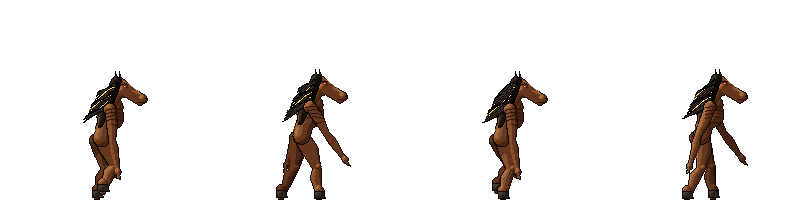
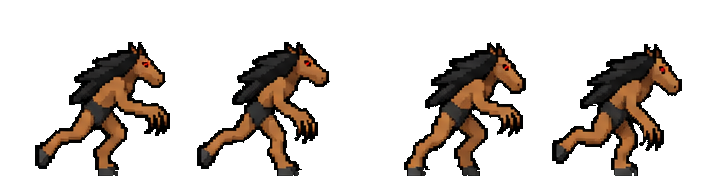
tikbalang_lvl3

diff --git a/tools/build_dilim_delivered.py b/tools/build_dilim_delivered.py
@@ -10,6 +10,7 @@ turnaround, walk or fly cycles, and a row of poses, on a near-black panel with g
     ASWANG/manananggal.png   the manananggal, its lower legs drawn apart
     ASWANG/aswang.png        the supplied crawling aswang sheet (2026-11-01), replacing
                             the sculpted old/hulking aswang, `aswang_pig`
+    ASWANG/tikbalang.png     the supplied tikbalang sheet (2026-11-01), idle and race cycles
 They replace the sculpted strips of the same names (ART_PLACEHOLDERS.md: "a delivered strip of the
 same name replaces one with no code change"). build_dilim_creatures.py draws everything else and
 leaves these names alone (DELIVERED).
@@ -103,6 +104,12 @@ def _cycle(stem: str) -> tuple[str, ...]:
 
 
 ROWS = {
+    "tikbalang": [
+        Row((366, 466, 871, 613), ("idle1", "idle2", "idle3", "idle4"),
+            edges=(366, 495, 620, 746, 871), labels=((366, 466, 540, 472),), inset=0),
+        Row((934, 471, 1510, 613), ("run1", "run2", "run3", "run4"),
+            edges=(934, 1078, 1223, 1362, 1510), inset=0),
+    ],
     "aswang": [
         Row((320, 310, 904, 421), _cycle("walk"), edges=(320, 416, 513, 610, 711, 814, 904), inset=0),
         Row((320, 475, 901, 586), ("idle1", "idle2", "idle3", "idle4"),
@@ -180,10 +187,23 @@ ASWANG_FRONT_LOCK = {
     "settle": (((1006, 675), (1002, 704)), 5),
 }
 
+# Dark mane pixels also overlap the tikbalang sheet's panel. These landmarks select only solid
+# mane pockets; the real gap beside idle2's hanging arm is deliberately left transparent.
+TIKBALANG_MANE_AT = {
+    "idle1": ((418, 487), (405, 504)),
+    "idle2": ((552, 492), (536, 509)),
+    "idle3": ((675, 491), (658, 509)),
+    "idle4": ((799, 499),),
+    "run1": ((1032, 491), (1021, 502), (1001, 515)),
+    "run2": ((1161, 506),),
+    "run3": ((1312, 501), (1284, 520)),
+    "run4": ((1442, 508), (1415, 529)),
+}
+
 ## Each creature's one scale, from the sheet to the game: the white lady a head taller than the
 ## apo (106 px), the kapre half again her height on its branch (Kent, 2026-10-22: "make the kapre
 ## bigger"; its sheet's "small in form" left it her size), the manananggal's wings ~140 px across.
-SCALE = {"whitelady": 0.66, "kapre": 0.86, "manananggal": 0.9, "aswang": 1.0}
+SCALE = {"whitelady": 0.66, "kapre": 0.86, "manananggal": 0.9, "aswang": 1.0, "tikbalang": 1.0}
 
 ## Poses drawn facing left.
 FACING_LEFT = {"whitelady": {"idle", "float", "look_up", "look_down", "reach"},
@@ -191,6 +211,8 @@ FACING_LEFT = {"whitelady": {"idle", "float", "look_up", "look_down", "reach"},
 
 ## The game's strips, each from one sheet's poses. A `_death` strip is its one pose fading out.
 STRIPS: dict[str, tuple[str, list[str]]] = {
+    "tikbalang_idle": ("tikbalang", ["idle1", "idle2", "idle3", "idle4"]),
+    "tikbalang_run": ("tikbalang", ["run1", "run2", "run3", "run4"]),
     "aswang_pig_idle": ("aswang", ["idle1", "idle2", "idle3", "idle4"]),
     "aswang_pig_run": ("aswang", list(_cycle("walk"))),
     "aswang_pig_windup": ("aswang", ["ready"]),
@@ -314,19 +336,26 @@ def _unshadowed(band: np.ndarray, own: np.ndarray, panel: np.ndarray) -> np.ndar
     return out
 
 
-def _restore_aswang_hair(own: np.ndarray, pose: str, origin: tuple[int, int]) -> np.ndarray:
+def _restore_ink_pockets(own: np.ndarray, points: tuple[tuple[int, int], ...],
+                         origin: tuple[int, int], subject: str) -> np.ndarray:
+    """Restore original-colour ink at marked enclosed pockets, never exterior background."""
     holes = ndimage.binary_fill_holes(own) & ~own
     lab, _ = ndimage.label(holes)
     keep = set()
     x0, y0 = origin
-    for x, y in ASWANG_HAIR_AT[pose]:
+    for x, y in points:
         if own[y - y0, x - x0]:
             continue
         pocket = int(lab[y - y0, x - x0])
         if pocket == 0:
-            raise ValueError(f"aswang {pose}: solid hair at {(x, y)} opens onto the background")
+            raise ValueError(f"{subject}: solid ink at {(x, y)} opens onto the background")
         keep.add(pocket)
-    out = own | np.isin(lab, list(keep))
+    return own | np.isin(lab, list(keep))
+
+
+def _restore_aswang_hair(own: np.ndarray, pose: str, origin: tuple[int, int]) -> np.ndarray:
+    out = _restore_ink_pockets(own, ASWANG_HAIR_AT[pose], origin, f"aswang {pose}")
+    x0, y0 = origin
     if pose in ASWANG_FRONT_LOCK:
         points, width = ASWANG_FRONT_LOCK[pose]
         matte = Image.new("1", (own.shape[1], own.shape[0]))
@@ -349,9 +378,9 @@ def poses(name: str) -> dict[str, Image.Image]:
         band = sheet[y0:y1, x0:x1]
         panel = _panel(band)
         labels = [(lx0 - x0, ly0 - y0, lx1 - x0, ly1 - y0) for lx0, ly0, lx1, ly1 in row.labels]
-        # The crawler's rows have no lettering or inner rules, and its claws use warm browns
-        # that overlap the other sheets' gold ink. Keep those actual character colours.
-        shapes = _shapes(_key(band, panel, labels, remove_gold=name != "aswang"), row, x0)
+        # Outside the explicit label boxes, these rows have no gold rules. The crawler's claws
+        # and tikbalang's skin overlap the other sheets' gold ink: keep those character colours.
+        shapes = _shapes(_key(band, panel, labels, remove_gold=name not in {"aswang", "tikbalang"}), row, x0)
         assert len(shapes) == len(row.names), f"{name}: {len(shapes)} figures in a row of {len(row.names)}"
         for pose, own in zip(row.names, shapes):
             if (name, pose) in LEGS_AT:
@@ -361,6 +390,8 @@ def poses(name: str) -> dict[str, Image.Image]:
             own = _unshadowed(band, own, panel)
             if name == "aswang":
                 own = _restore_aswang_hair(own, pose, (x0, y0))
+            elif name == "tikbalang":
+                own = _restore_ink_pockets(own, TIKBALANG_MANE_AT[pose], (x0, y0), f"tikbalang {pose}")
             ys, xs = np.nonzero(own)
             crop = (slice(ys.min(), ys.max() + 1), slice(xs.min(), xs.max() + 1))
             rgba = np.zeros(own[crop].shape + (4,), dtype=np.uint8)

diff --git a/tests/test_build_dilim_delivered.py b/tests/test_build_dilim_delivered.py
@@ -109,6 +109,7 @@ class DeliveredStripsTest(unittest.TestCase):
         # branch; the manananggal's wings wide enough to be the thing hunting from above.
         self.assertTrue(110 <= _height(_frames(self.strips["aswang_dog_idle"])[0]) <= 124)
         self.assertTrue(140 <= _height(_frames(self.strips["kapre_idle"])[0]) <= 170)
+        self.assertTrue(130 <= _height(_frames(self.strips["tikbalang_idle"])[0]) <= 150)
         wings = _frames(self.strips["manananggal_upper_idle"])[0][..., 3] > 0
         cols = np.nonzero(wings.any(axis=0))[0]
         self.assertTrue(120 <= cols.max() - cols.min() + 1 <= 160, f"wings {cols.max() - cols.min() + 1} px")
@@ -145,6 +146,25 @@ class DeliveredStripsTest(unittest.TestCase):
                 self.assertTrue(hair.any(), f"{name} frame {index}: missing dark hair/outline")
                 self.assertGreater(np.nonzero(red)[1].mean(), np.nonzero(hair)[1].mean(),
                                    f"{name} frame {index} faces left")
+
+    def test_tikbalang_keeps_its_solid_mane_skin_and_rightward_facing(self) -> None:
+        for name, picture in delivered.poses("tikbalang").items():
+            px = np.asarray(picture).astype(int)
+            r, g, b, a = (px[..., c] for c in range(4))
+            opaque = a > 128
+            holes = delivered.ndimage.binary_fill_holes(opaque) & ~opaque
+            self.assertFalse(holes[:picture.height // 2].any(), f"{name}: holes through the mane")
+            skin = opaque & (r > g + 20) & (g > b + 10)
+            self.assertGreater(int(skin.sum()), 800, f"{name}: the key erased its brown skin")
+            eye = opaque & (r > 150) & (g < 70) & (b < 70)
+            mane = opaque & (px[..., :3].max(axis=2) < 60)
+            self.assertTrue(eye.any(), f"{name}: missing red eye")
+            self.assertGreater(np.nonzero(eye)[1].mean(), np.nonzero(mane)[1].mean(),
+                               f"{name}: faces away from the race")
+            lettering = opaque & (r > 190) & (g > 160) & (b < 130)
+            self.assertFalse(lettering[:10].any(), f"{name}: sheet heading remains on the sprite")
+        idle = np.asarray(delivered.poses("tikbalang")["idle2"])
+        self.assertEqual(int(idle[79, 46, 3]), 0, "the gap beside its arm was filled in")
 
     def test_crawler_hair_is_solid_without_filling_the_spaces_between_limbs(self) -> None:
         # The old key left many enclosed transparent patches across the hair in every pose.

diff --git a/tools/build_dilim_creatures.py b/tools/build_dilim_creatures.py
@@ -10,8 +10,8 @@ game/assets/Level4/creatures/, so a delivered strip of the same name simply wins
 WHAT IS DELIVERED NOW
 ---------------------
 The art team's sheets (LEVEL4_Creatures/, 2026-10-20) give the kapre, the manananggal (both halves)
-and the lean aswang -- a white lady. The crawling aswang sheet was supplied on 2026-11-01;
-tools/build_dilim_delivered.py cuts all four. Their strips
+and the lean aswang -- a white lady. The crawling aswang sheet was supplied on 2026-11-01.
+The tikbalang sheet followed the same day; tools/build_dilim_delivered.py cuts all five. Their strips
 (build_dilim_delivered.DELIVERED) are not drawn here; the kapre's tree, its smoke and its cigar
 still are.
 
@@ -20,7 +20,7 @@ HOW THEY ARE DRAWN
 In the delivered art's idiom (the apo, Lolo, the bakunawa): one art px to one screen px, five or
 six tones a material lit from the upper left, and selective coloured outlines -- see
 tools/creature_sculpt.py. The creatures themselves are in dilim_beasts.py (the sigbin),
-dilim_giants.py (the tikbalang, the bungisngis), dilim_kapre.py (the
+dilim_giants.py (the bungisngis), dilim_kapre.py (the
 kapre's smoke and its cigar), dilim_fliers.py (the wakwak, the tik-tik) and dilim_small.py (the
 tiyanak and its undergrowth, the santelmo, the nuno's mound, the kapre's balete); the last
 clearing's dead tree, drawn the same way, is in dilim_props.py.
@@ -60,7 +60,7 @@ ROOT = Path(__file__).resolve().parent.parent
 OUT = ROOT / "game" / "assets" / "Level4" / "creatures"
 
 # Which way each stands: on its feet at the bottom row, or centred (a flier).
-GROUND = ["sigbin", "tikbalang", "bungisngis", "kapre_tree", "tiyanak", "tiyanak_undergrowth", "nuno_mound", "dead_tree"]
+GROUND = ["sigbin", "bungisngis", "kapre_tree", "tiyanak", "tiyanak_undergrowth", "nuno_mound", "dead_tree"]
 FLYING = ["wakwak", "tiktik", "santelmo"]
 
 
@@ -71,7 +71,6 @@ def _beast(b):
 def _sheets() -> dict[str, dict[str, list[Image.Image]]]:
     return {
         "sigbin": _beast(beasts.SIGBIN),
-        "tikbalang": {a: [giants.draw(giants.TIKBALANG, st).render() for st in poses] for a, poses in giants.TIKBALANG_ANIMS.items()},
         "bungisngis": {a: [giants.draw_bungisngis(st).render() for st in poses] for a, poses in giants.BUNGISNGIS_ANIMS.items()},
         "kapre_smoke": {"idle": kapre.smoke()},
         "kapre_cigar": {"idle": [kapre.cigar()]},

diff --git a/tests/test_build_dilim_creatures.py b/tests/test_build_dilim_creatures.py
@@ -1,6 +1,6 @@
 """tools/build_dilim_creatures.py: Dilim's sculpted creature strips, and what they must keep true.
 
-The supplied sheets (the kapre, the manananggal, both aswang variants) are cut by build_dilim_delivered.py
+The supplied sheets (the kapre, the manananggal, both aswang variants, the tikbalang) are cut by build_dilim_delivered.py
 and tested in test_build_dilim_delivered.py, the kapre's place in its tree with them."""
 
 from __future__ import annotations

diff --git a/ART_PLACEHOLDERS.md b/ART_PLACEHOLDERS.md
@@ -328,9 +328,9 @@ one they learn by being put back. Art may restyle it; it may not replace it with
 **Updated 1 November.** Level 4's delivery (`Mt Makiling Level 4.zip`) is forest plates and a
 labelled tileset and no creature art. The art team has since sent three creatures
 (`Creatures.zip`): **the kapre, the manananggal and a white lady**, who is the lean aswang.
-A fourth sheet supplied on 1 November replaces the old/hulking aswang (`aswang_pig`). Every
-other creature is a developer's: sculpted pixel strips, not code-drawn bodies, but still stand-ins
-for an artist's. **See them all at once:**
+Two more sheets supplied on 1 November replace the old/hulking aswang (`aswang_pig`) and
+the tikbalang. Every other creature is a developer's: sculpted pixel strips, not code-drawn
+bodies, but still stand-ins for an artist's. **See them all at once:**
 `godot -t --resolution 1600x900 --path game --script res://tests/run_visual_dilim_creatures.gd`
 writes each one beside her, in her light at play framing, to `/tmp/obra_dilim_*.png` and a sheet.
 That is the right way to judge them -- Dilim is dark, and a body that reads on a grey background
@@ -339,8 +339,8 @@ can vanish in the level.
 **Painted (delivered):** the six Makiling plates and four seamless tiles, cut by
 `tools/build_dilim.py` (`CONTENT_NEEDED.md` §3 has what is not cut yet).
 
-**Supplied character art:** four character sheets kept as sent in
-`LEVEL4_Creatures/ASWANG/` (`kapre.png`, `manananggal.png`, `whitelady.png`, `aswang.png`), cut by
+**Supplied character art:** five character sheets kept as sent in
+`LEVEL4_Creatures/ASWANG/` (`kapre.png`, `manananggal.png`, `whitelady.png`, `aswang.png`, `tikbalang.png`), cut by
 `tools/build_dilim_delivered.py` into the strips below of the same names: the poses keyed off their
 panel, their shadows, labels and the manananggal's legs taken off, each creature scaled once, the
 left-facing poses mirrored. No sheet draws a death, so a death is its pose fading out. The white
@@ -350,7 +350,7 @@ lady is `aswang_dog_*`; the supplied crawling aswang is `aswang_pig_*`.
 
 | What | Tool | Files | The contract |
 |---|---|---|---|
-| Every creature but the four supplied, the kapre's balete, smoke and cigar, and the finale's dead tree | `tools/build_dilim_creatures.py`, on `tools/creature_sculpt.py` (the bodies in `dilim_beasts.py`, `dilim_giants.py`, `dilim_kapre.py`, `dilim_fliers.py`, `dilim_small.py`; the dead tree in `dilim_props.py`) | `assets/Level4/creatures/<kind>_<anim>.png` | A row of square frames, as tall as wide; a strip whose width is not a whole number of its height is one picture (the mound, the tree). Ground kinds stand on the bottom row, fliers are centred -- that point is the creature's position. Chibi like the apo, cel-lit from the upper left, each part edged in a darker tone of its own colour, never black. Each script's own `_draw()` stays as the fallback while a strip is missing |
+| Every creature but the five supplied, the kapre's balete, smoke and cigar, and the finale's dead tree | `tools/build_dilim_creatures.py`, on `tools/creature_sculpt.py` (the bodies in `dilim_beasts.py`, `dilim_giants.py`, `dilim_kapre.py`, `dilim_fliers.py`, `dilim_small.py`; the dead tree in `dilim_props.py`) | `assets/Level4/creatures/<kind>_<anim>.png` | A row of square frames, as tall as wide; a strip whose width is not a whole number of its height is one picture (the mound, the tree). Ground kinds stand on the bottom row, fliers are centred -- that point is the creature's position. Chibi like the apo, cel-lit from the upper left, each part edged in a darker tone of its own colour, never black. Each script's own `_draw()` stays as the fallback while a strip is missing |
 | Lola's six things | `tools/build_dilim_props.py` | `assets/Level4/props/<id>.png` | 32-px icons, each on a leaf, each told apart by its brightest colour: salt, ash, garlic, candle, lamp oil, the stingray-tail whip. The quick slots and the pickups load them by id |
 
 **The creatures' strips, and what each has to say** -- a delivered strip of the same name replaces
@@ -362,7 +362,7 @@ one with no code change:
 | Santelmo | `santelmo_idle`, `santelmo_hot` | A flame that wants her: brighter while it is coming |
 | The nuno's mound | `nuno_mound_idle` (one picture) | An earth mound with something left for the nuno -- a thing to be respectful round, never a target |
 | Sigbin | `sigbin_*`: the six states | Goat-like, long ears hanging, walking backwards. It shows only as much as the light on it, so in the dark it is a glint -- the windup's glint is its tell, and must stay |
-| Tikbalang | `tikbalang_idle`, `tikbalang_run` | A tall, lanky figure, horse-headed, a mane with three golden hairs, eyes catching the light |
+| Tikbalang | **Supplied:** `tikbalang_idle`, `tikbalang_run`, cut from `tikbalang.png` (1 November) | Horse-headed, brown-skinned, long black mane, red eye, black waist cloth and hooves. Four breathing poses while it waits and four running poses during the race. Original colours and dark mane are preserved; spaces between its limbs remain transparent. Stands about 140 px tall, matching its previous scale. |
 | Kapre | **Delivered:** `kapre_idle`, `kapre_knocked`, `kapre_falling`, `kapre_walk`. Sculpted: its tree `kapre_tree_idle`, `kapre_tree_felled` (one picture each); `kapre_smoke_idle`; `kapre_cigar_idle` (one picture) | The art team's kapre: small, green-skinned, long grey hair and beard, a hide over one shoulder -- its sheet's "small in form, but still strangely imposing", stood half again her height -- standing on a branch of a balete (a strangler fig, its trunk a lattice of roots) beside the trunk, facing her, its cigar seen end on in its teeth and its face lit by the ember; angry when the cigar is knocked from its mouth, startled looking up as its tree goes under it, then walking off. Drawn in the tree's own frame: the strip's feet stand at `Kapre2D.ART_AT`; the drawn cigar's tip is `CIGAR_TIP`, where its hit area and the ember's own light are; its lips are `FACE_LIGHT_FROM`, where the light on its face starts -- a redrawn kapre keeps all three, or moves them with it (`tools/build_dilim_delivered.py` `KAPRE_*`; `tests/test_build_dilim_delivered.py` holds them together, checks its feet are on the branch, and measures how much of the backdrop's sky the lights show over the drawn tree and kapre). The smoke is six puffs, `PUFF` px square: four billows, a middling and a small one. The cigar alone is the one that falls when it is knocked. The tree lies felled once it is chopped down |
 | Tiyanak | `tiyanak_idle`, `tiyanak_true`, `tiyanak_run`; its undergrowth `tiyanak_undergrowth_idle` (one picture, the 480-px span plus 4 px at the sides and top, and 200 px under the ground over the drop, `Tiyanak2D.ART_BELOW`) | A swaddled bundle that cries -- and, lit, what it is: small, hunched, red-eyed. Its undergrowth -- leaf masses, broad leaves and arching fronds over a ground cover solid the whole way, and over the drop a thicket hanging 200 px down past the rim, fading into the dark, so in her light the drop is more bushes and not a hole -- stirs when it cries, and thins once a light has shown what is under it |
 | Bungisngis | `bungisngis_*`: the six states, `laugh`, `aside` | A one-eyed giant with a club, always grinning, standing in the crossing like a wall; laughing helpless; sat aside |

diff --git a/LEVEL_4.md b/LEVEL_4.md
@@ -40,7 +40,7 @@ in three waves until dawn.
 | The tally | Every encounter's route is logged for the thesis telemetry, but the ending gets **one point from Dilim**: its majority route. Six forks must not decide the ending alone. |
 | "Absurd" | The bungisngis laughs itself helpless at **sea things in a forest**: fish, shark, octopus, sailboat, submarine. The game can only see a class, so the joke had to be a set of classes. |
 | Quick slots | Four, on **Z X C V**. Z/X rotate a drawing only while placing, and quick slots are off while placing. |
-| Creature art | **Sculpted pixel strips**, in the delivered art's idiom: chibi like the apo, cel-lit from the upper left, each part edged in a darker tone of its own colour (`tools/creature_sculpt.py`). Replaceable by name when the art team delivers -- the kapre, the manananggal and a white lady as the lean aswang came in `Creatures.zip`; the crawling aswang sheet was supplied on 2026-11-01. All four are cut by `tools/build_dilim_delivered.py`. |
+| Creature art | **Sculpted pixel strips**, in the delivered art's idiom: chibi like the apo, cel-lit from the upper left, each part edged in a darker tone of its own colour (`tools/creature_sculpt.py`). Replaceable by name when the art team delivers -- the kapre, the manananggal and a white lady as the lean aswang came in `Creatures.zip`; the crawling aswang and tikbalang sheets were supplied on 2026-11-01. All five are cut by `tools/build_dilim_delivered.py`. |
 | Defaults taken | Shift = walk (the santelmo's rule needs one). The opening is design Draft A, naming the manananggal and the tikbalang, played as the level's intro. |
 
 ## Flow
@@ -158,8 +158,10 @@ What the build does that the design above does not say, and what it does not do 
   `LEVEL4_Creatures/`, cut by `tools/build_dilim_delivered.py`): the kapre, the manananggal (both
   halves) and a white lady, who is the lean aswang (Kent, 2026-10-21). A fourth supplied sheet,
   `LEVEL4_Creatures/ASWANG/aswang.png` (2026-11-01), replaces the old/hulking aswang with a pale,
-  black-haired crawler with a long red tongue. Every other is a sculpted
-  strip a developer drew -- santelmo, nuno's mound, sigbin, tikbalang, the kapre's
+  black-haired crawler with a long red tongue. The supplied `tikbalang.png` followed the same day,
+  with four breathing and four race-running poses at its existing scale; its dark mane is kept
+  opaque with source matte landmarks. Every other is a sculpted
+  strip a developer drew -- santelmo, nuno's mound, sigbin, the kapre's
   balete (standing and felled), tiyanak, bungisngis, wakwak and tik-tik -- standing in for an
   artist's (`ART_PLACEHOLDERS.md` names every strip; `run_visual_dilim_creatures` lays them side by
   side in her light). Each script's own code-drawn body is the fallback while a strip is missing. Her hurt
